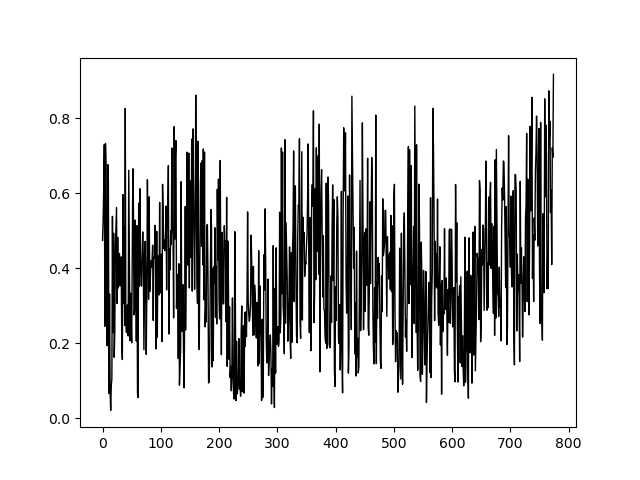
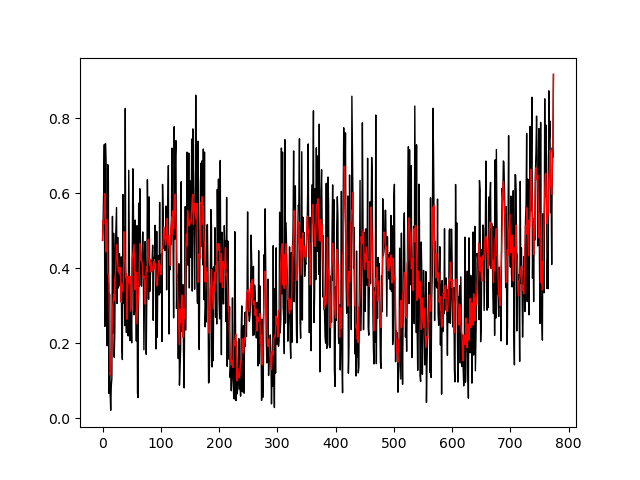
Added moving average smoothing.

Changed region(s): [[0.1562, 0.3125, 0.875, 0.7812], [0.8438, 0.1562, 0.875, 0.1875]]

diff --git a/thermoclass/results.py b/thermoclass/results.py
@@ -82,7 +82,16 @@ def get_kmers_predictions_mean(seq_dict, seq_key):
 	return mean
 
 # Plotting predictions.
-def plot_predictions(predictions_file, seq_key, indeces, sep, output_png, smoothened=False):
+def plot_predictions(predictions_file, seq_key, indeces, sep, output_png, k=0):
+	# predictions_file 	- [STRING] path to a TSV file with per token predictions
+	#					  from thermoclass
+	# seq_key 			- [STRING] sequence identifier in the predictions file
+	# indeces 			- [LIST] list with indeces denoting columns for x and y 
+	# 					  values to plot, len(indeces) == 2
+	# sep 				- [STRING] a separator, which waas used to separate
+	#					  values in the predictions file
+	# output_png 		- [STRING] a path to a PNG for the plot
+	# k 				- [INT] size of a window for moving average smoothing
 	x_values = []
 	y_values = []
 	file_handle = open(predictions_file, 'r')
@@ -95,6 +104,18 @@ def plot_predictions(predictions_file, seq_key, indeces, sep, output_png, smooth
 			y_values.append(float(line_arr[indeces[1]]))
 
 	plt.plot(x_values, y_values, linewidth=1, color='black')
+	if(k != 0):
+		y_smoothened_values = []
+		for i in x_values:
+			if(i-int(k/2) >= 0 and i-int(k/2)+(k-1) < len(x_values)):
+				window = []
+				for j in range(k):
+					window.append(y_values[i-int(k/2)+j])
+				y_smoothened_values.append(statistics.mean(window))
+			else:
+				y_smoothened_values.append(y_values[i])
+
+	plt.plot(x_values, y_smoothened_values, linewidth=1, color='red')
 	plt.savefig(output_png)
 	plt.clf()
 
